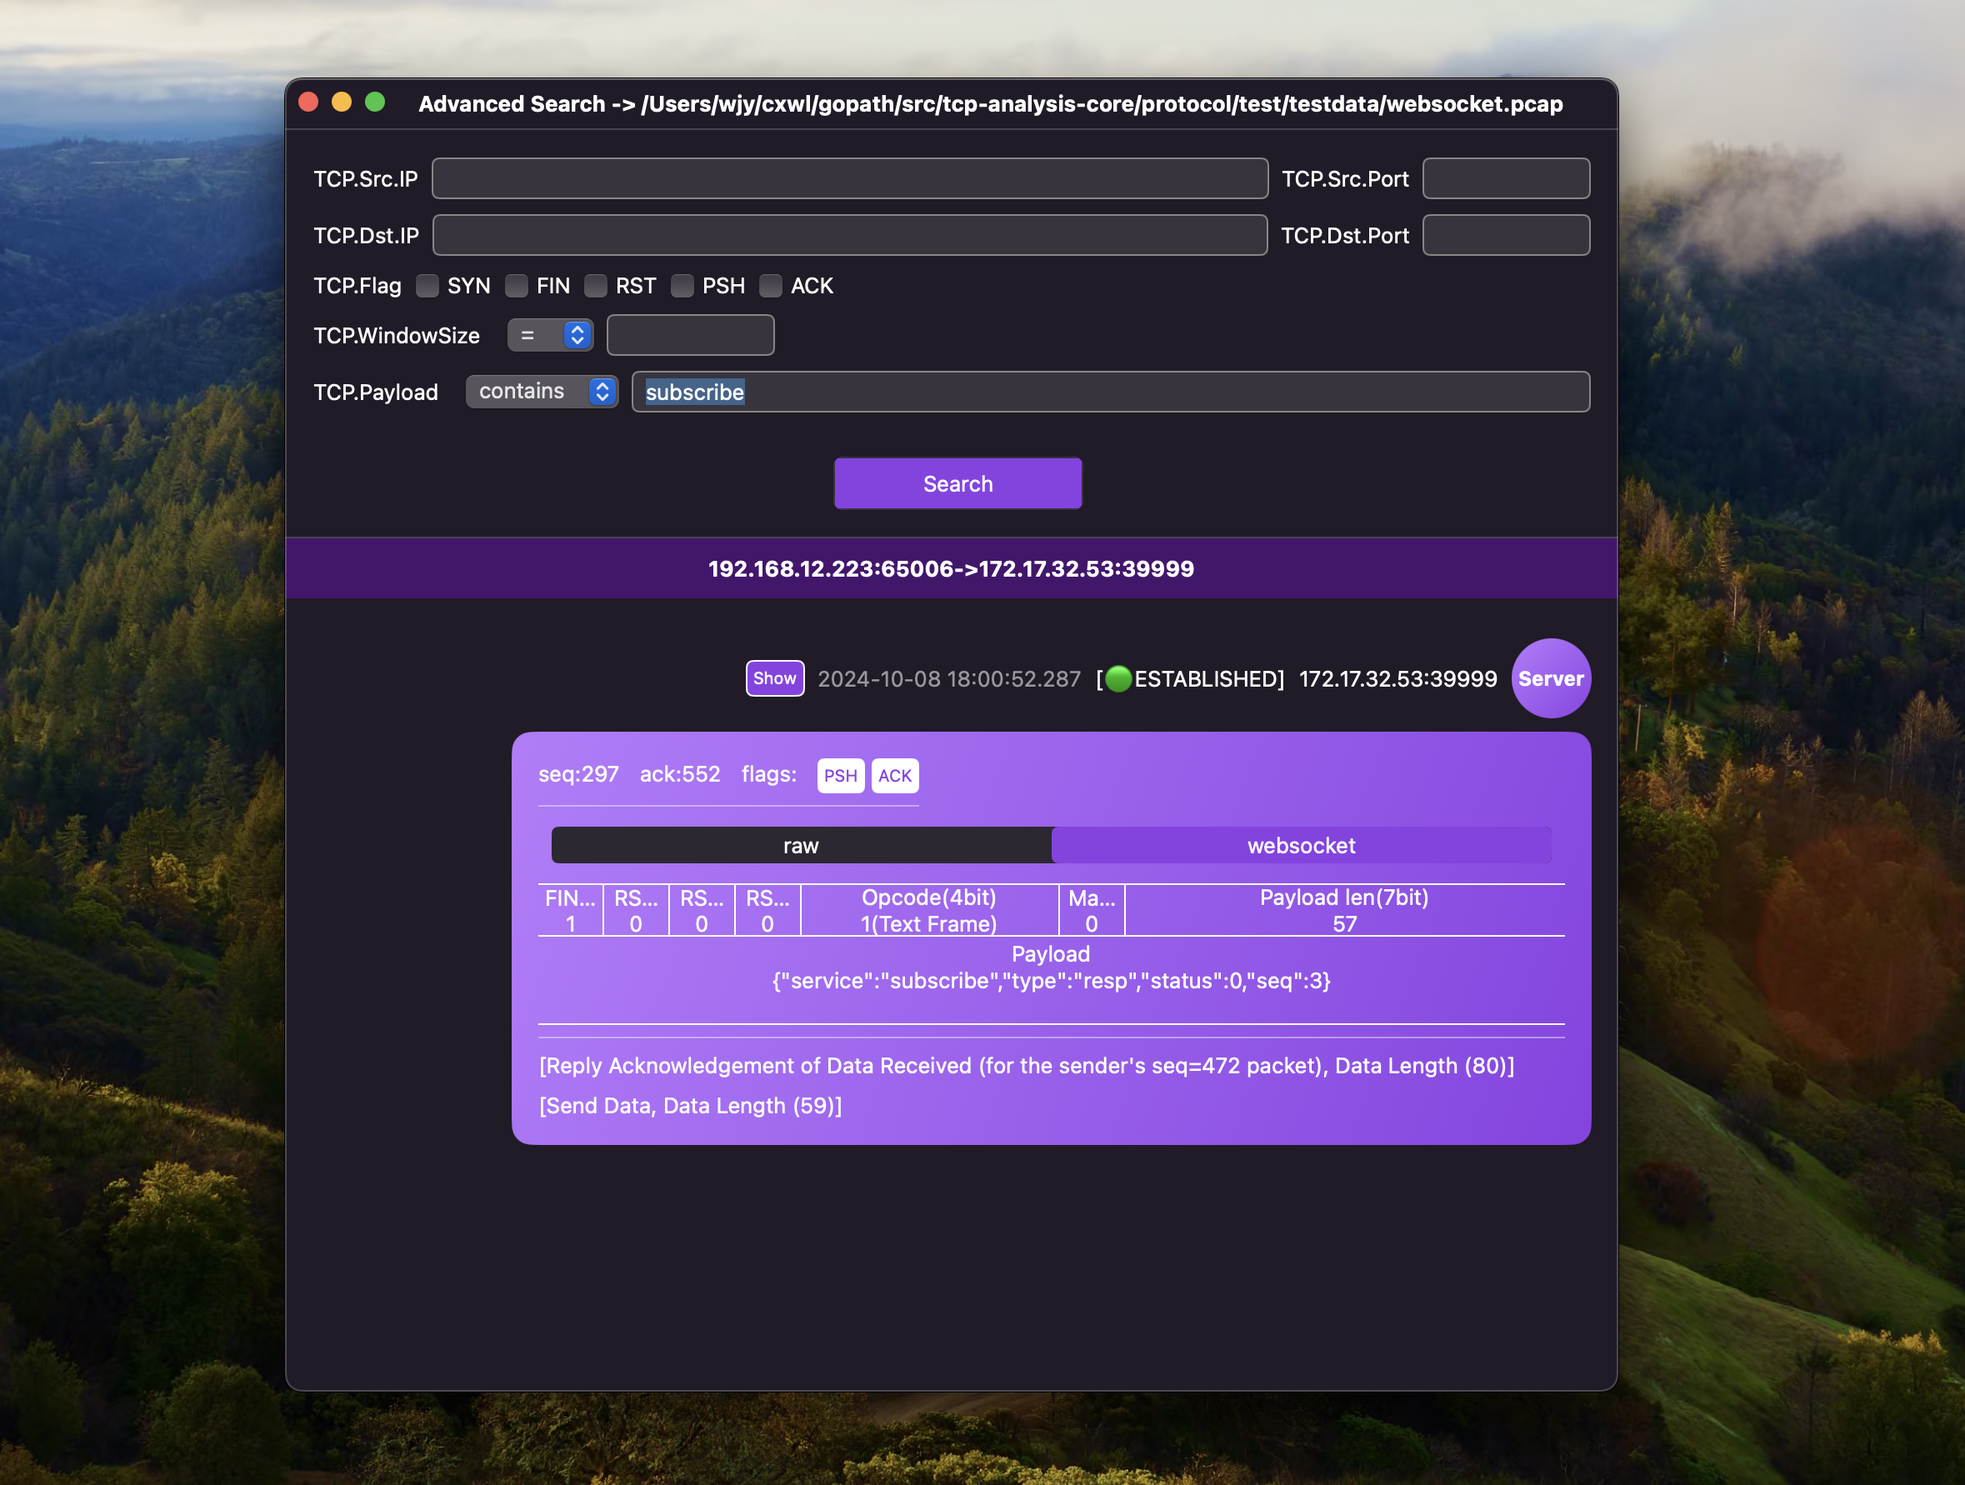
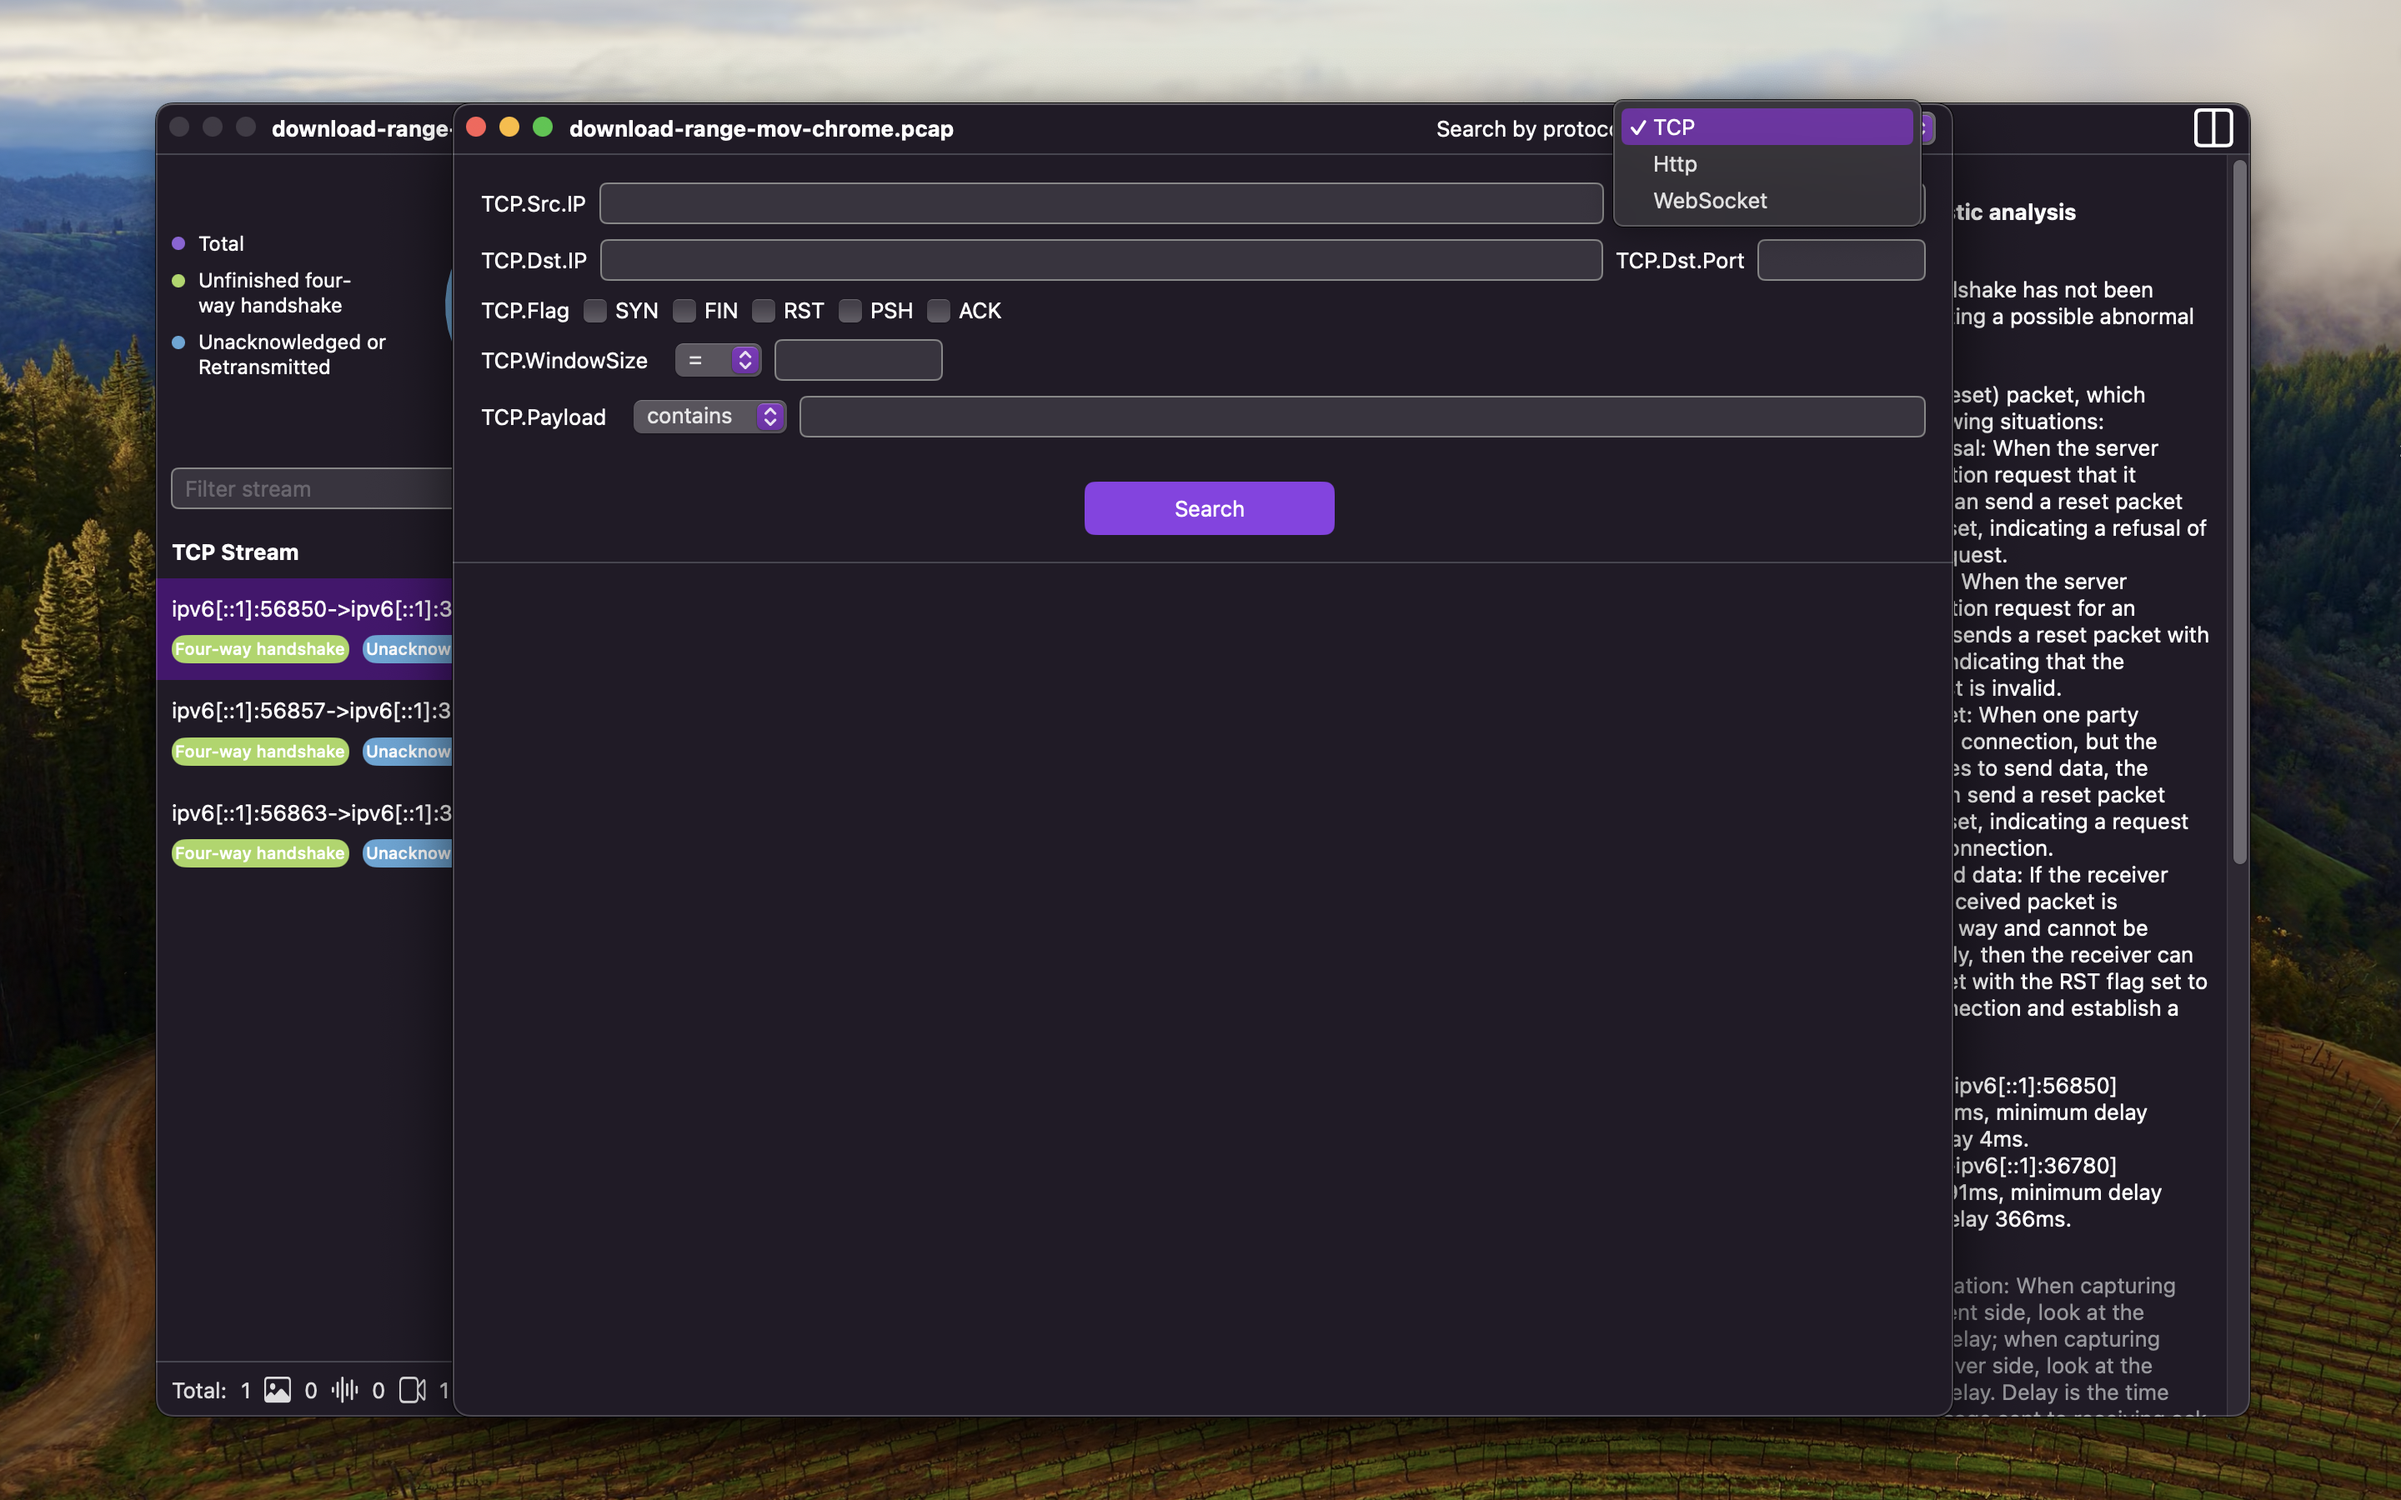
feat: 换新搜索功能描述

diff --git a/src/search-package.md b/src/search-package.md
@@ -7,3 +7,7 @@ However, in practical use, pcap files can be very large, yielding numerous conne
 To address this issue, ChatTCP provides an advanced search function that supports global searching of packets based on conditions such as TCP flags and Payload. Similarly, there is no need to remember how to write filter expressions like in Wireshark.
 
 ![Advanced search](/images/search-package/advanced-search.png)
+
+The ChatTCP search function also supports setting search criteria based on application layer protocols. For instance, when we select the HTTP protocol, the input criteria transform into searchable fields within the data structure of the HTTP protocol.
+
+![Http protocol search](/images/search-package/http-search-condtion.png)

diff --git a/src/zh/search-package.md b/src/zh/search-package.md
@@ -7,3 +7,7 @@ ChatTCP为了简化分析过程，会解析出pcap（或pcapng）文件中所有
 为了解决这个问题，ChatTCP提供高级搜索功能，支持按TCP标志位、Payload等条件全局搜索数据包。同样的，我们也并不需要像Wireshark那样记过滤表达式怎么写。
 
 ![Advanced search](/images/search-package/advanced-search.png)
+
+ChatTCP搜索功能还支持根据应用层协议设置检索条件，例如当我们选择HTTP协议时，输入条件就变成http协议的数据结构的可检索字段。
+
+![Http protocol search](/images/search-package/http-search-condtion.png)
